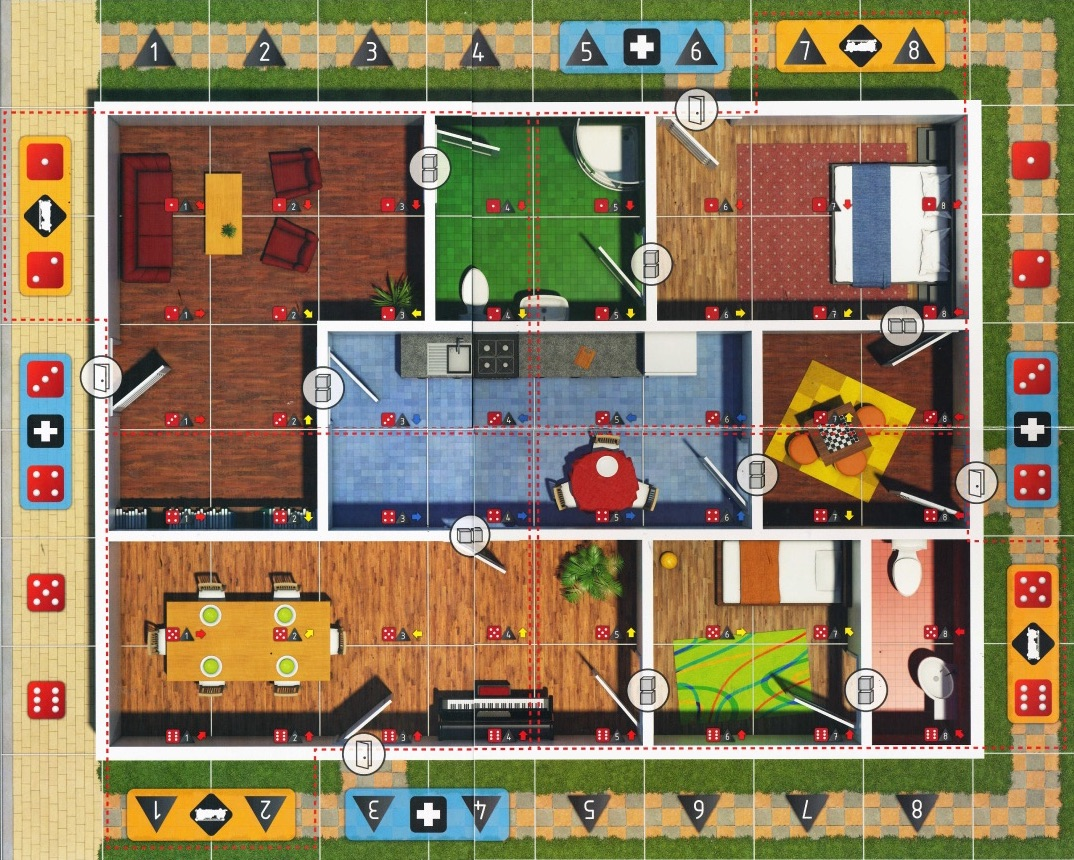
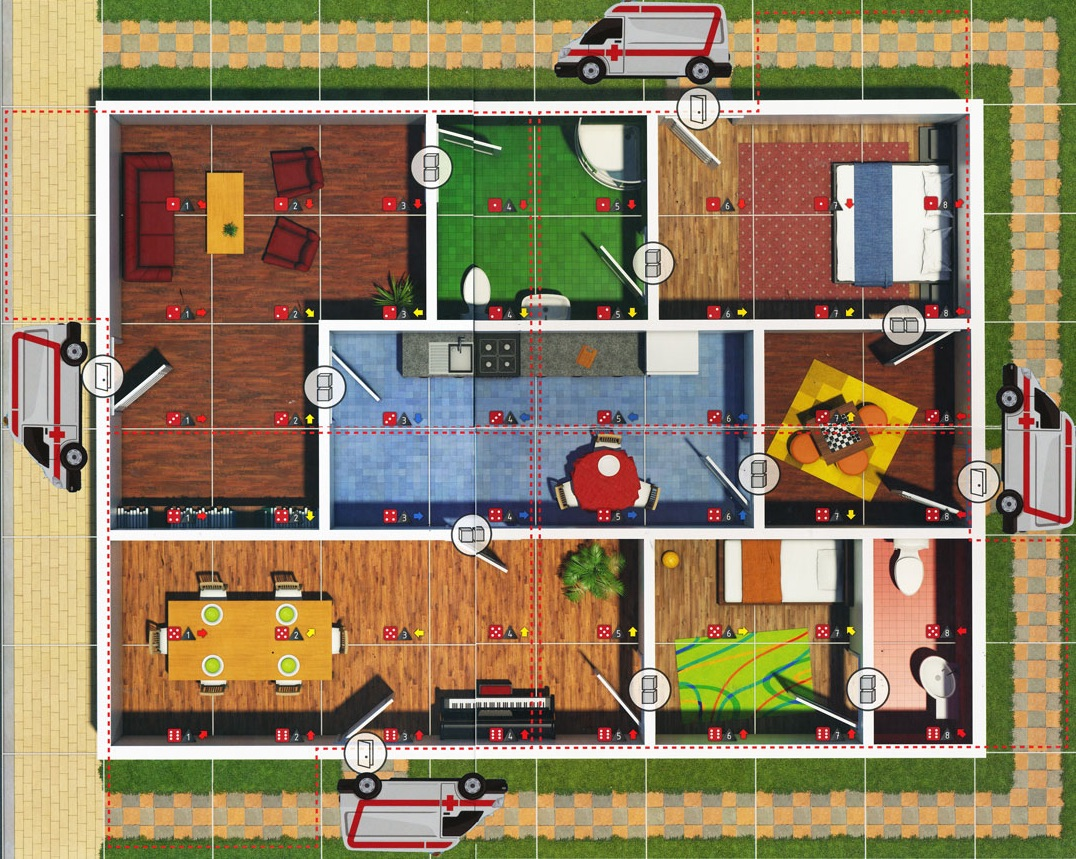
Add closed and open doors

diff --git a/game/components/Board.jsx b/game/components/Board.jsx
@@ -404,25 +404,25 @@ class Board extends React.Component {
                       {
                         eastBoundary && eastBoundary.kind === 'door'
                         && eastBoundary.status === 0
-                        && <div className='vertical-door-closed'
+                        && <div className={`door vertical-door-closed`}
                           onClick={(evt) => handleDoorSwitch(evt, eastBoundary)} />
                       }
                       {
                         southBoundary && southBoundary.kind === 'door'
                         && southBoundary.status === 0
-                        && <div className='horizontal-door-closed'
+                        && <div className={`door horizontal-door-closed`}
                           onClick={(evt) => handleDoorSwitch(evt, southBoundary)} />
                       }
                       {
                         eastBoundary && eastBoundary.kind === 'door'
                         && eastBoundary.status === 1
-                        && <div className='vertical-door-open'
+                        && <div className={`door vertical-door-open`}
                           onClick={(evt) => handleDoorSwitch(evt, eastBoundary)} />
                       }
                       {
                         southBoundary && southBoundary.kind === 'door'
                         && southBoundary.status === 1
-                        && <div className='horizontal-door-open'
+                        && <div className={`door horizontal-door-open`}
                           onClick={(evt) => handleDoorSwitch(evt, southBoundary)} />
                       }
                     </div>

diff --git a/public/stylesheets/main.css b/public/stylesheets/main.css
@@ -76,36 +76,37 @@
   left: 52px;
 }
 
-.vertical-door-closed {
-  width: 10px;
-  height: 60px;
+.door {
+  background-size: 34px;
+  border: 1px solid black;
+  border-radius: 35px;
+  width: 35px;
+  height: 35px;
   position: absolute;
-  background-color: blue;
-  left: 52px;
+}
+
+.vertical-door-closed {
+  background-image: url(/images/closed_door.jpg);
+  top: 12px;
+  left: 45px;
 }
 
 .vertical-door-open {
-  width: 10px;
-  height: 60px;
-  position: absolute;
-  background-color: green;
-  left: 52px;
+  background-image: url(/images/open_door.jpg);
+  top: 12px;
+  left: 45px;
 }
 
 .horizontal-door-closed {
-  width: 60px;
-  height: 10px;
-  position: absolute;
-  background-color:blue;
-  top: 52px;
+  background-image: url(/images/closed_door.jpg);
+  top: 40px;
+  left: 12px;
 }
 
 .horizontal-door-open {
-  width: 60px;
-  height: 10px;
-  position: absolute;
-  background-color: green;
-  top: 52px;
+  background-image: url(/images/open_door.jpg);
+  top: 40px;
+  left: 12px;
 }
 
 .player {
